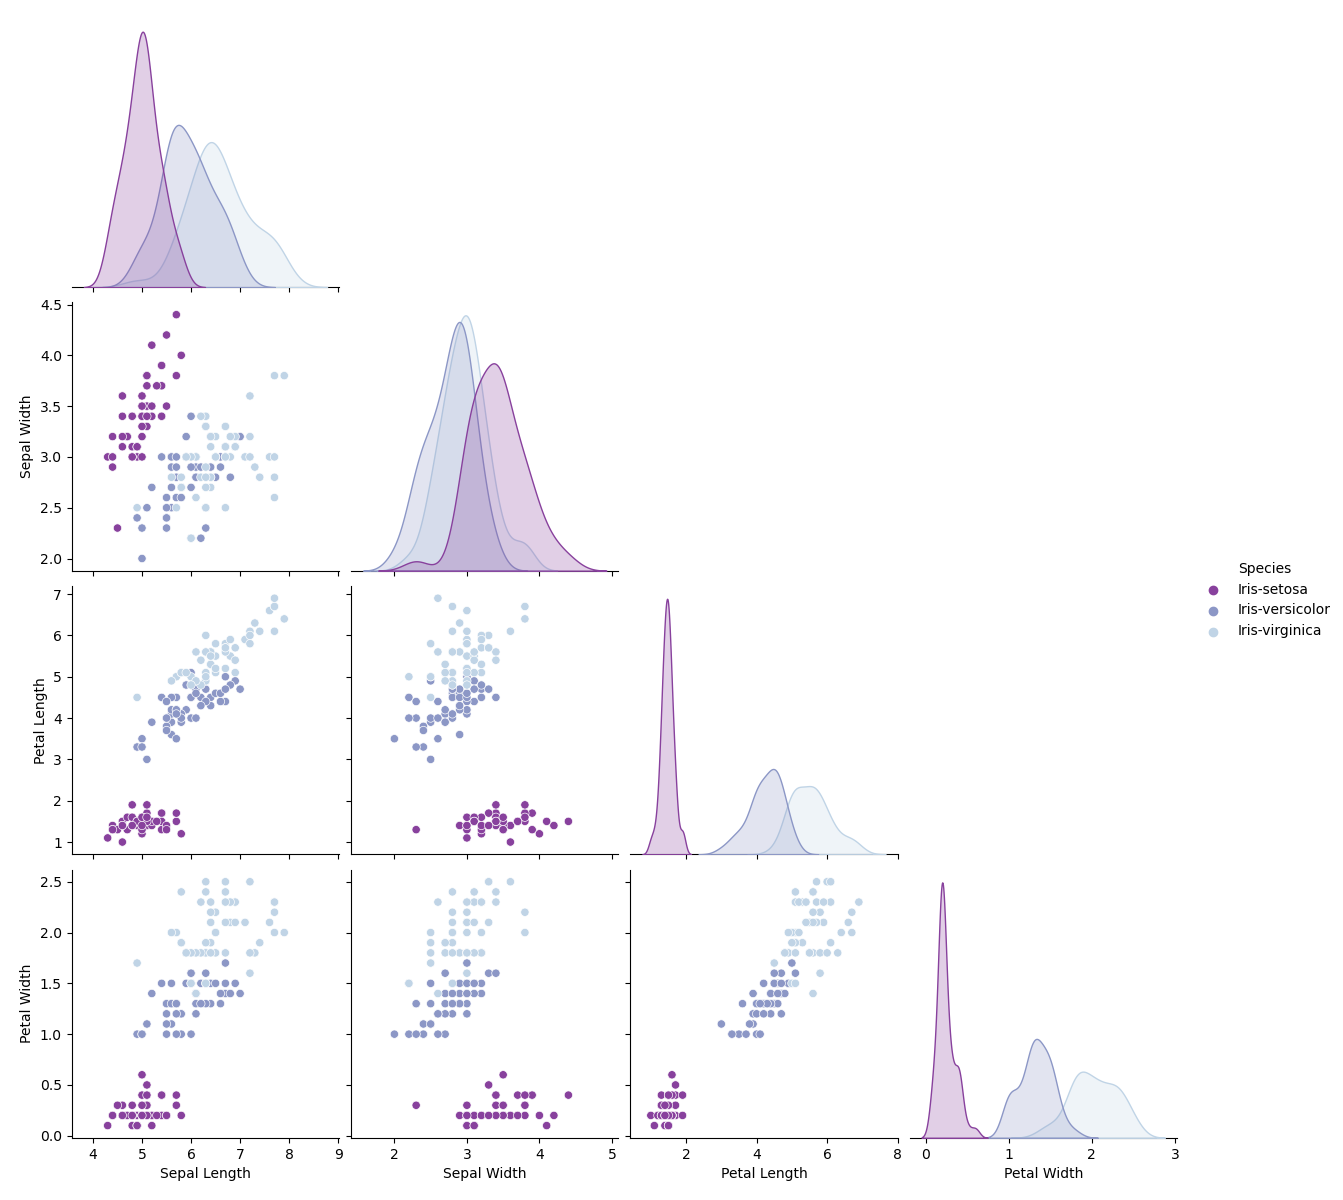
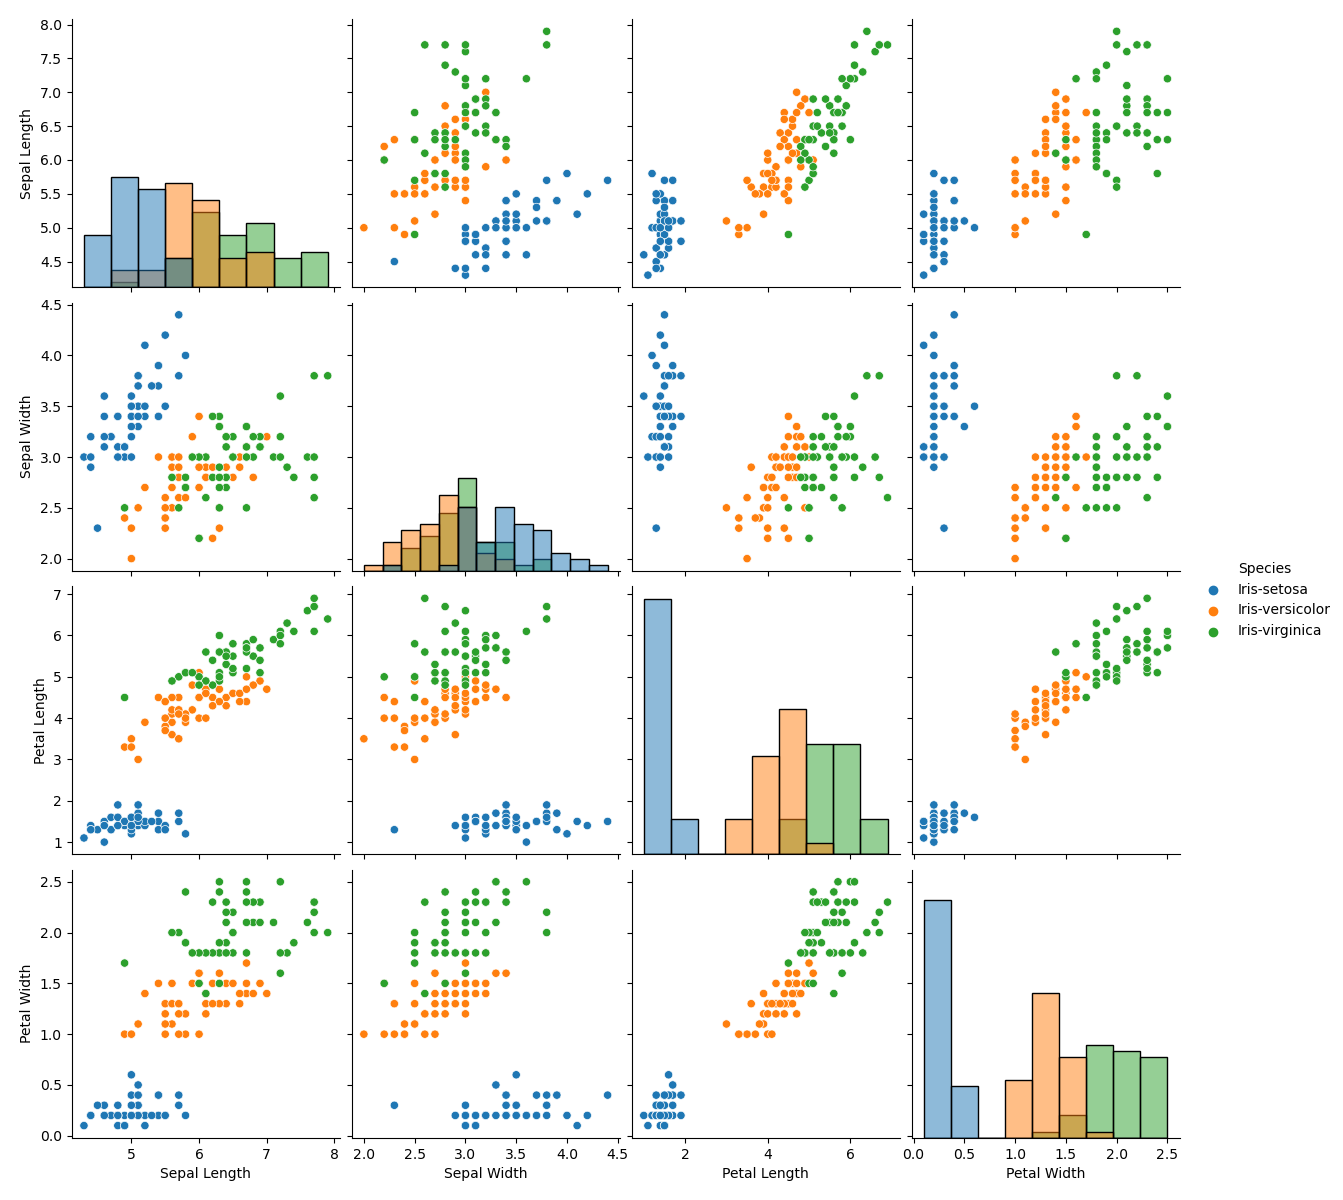
Extra Comments

diff --git a/analysis.py b/analysis.py
@@ -56,7 +56,9 @@ def dataSummary():
         f.write(("Data Correlation\n\n")+(str(correlation)))
 
 ###############################################################################################################################
-#Histograms
+#Histograms using matplotlib
+#Function to create 4 Histograms for each of the measured variables and save the output to image file
+
 def histograms():
 
     ax = plt.axes()
@@ -95,7 +97,10 @@ def histograms():
     
 
 ##########################################################################
-#Scatterplots
+#Scatterplots using Seaborn
+#Function to create 4 Scatterplots seperated by Species, for each of the variable pairs and save the output to image file
+#A seaborn pairplot to combine scatter and kernal density estimate
+
 def scatterPlots():
     
     sns.FacetGrid(df,hue="Species", palette="BuPu_r", height=5).map(plt.scatter, "Sepal Length", "Sepal Width" ).add_legend()
@@ -124,6 +129,8 @@ def scatterPlots():
     plt.show()
 
 ##########################################################################
+#Stacked histograms showing the values of each species. Combined into one output png
+
 def distPlot():
     distplot, axes = plt.subplots(2,2, figsize=(10,10), sharex=False)
     sns.histplot( x="Sepal Length", hue="Species", data = df, palette="BuPu_r", ax=axes[0,0], multiple = "stack")
@@ -135,16 +142,8 @@ def distPlot():
     plt.show()
 
 ##########################################################################
-def stack():
-    df.plot(kind='barh', stacked=True)  
-    plt.xlabel('in cm')  
-    plt.ylabel('Sample of 150 flowers') 
-    plt.title('Stacked Bar Graph')
-    plt.tight_layout()
-    #plt.savefig("./plots/stackPlot.png")
-    plt.show() 
+#Seaborn Box Plots of each sppecies by measured variable. Combined into one output png
 
-##########################################################################
 def boxPlots():
     boxPlot, axes = plt.subplots(1,4, figsize=(16,8))
     sns.boxplot(x="Species", y="Sepal Length", hue="Species", data=df, palette="BuPu_r", ax=axes[0], dodge=False)    
@@ -154,6 +153,9 @@ def boxPlots():
     plt.suptitle("Box Plots")
     plt.savefig("./plots/boxPlots.png")
     plt.show()
+
+##########################################################################
+#Seaborn Violin Plots of each sppecies by measured variable. Combined into one output png
 
 def violinPlots():
     violinplot, axes = plt.subplots(2,2, figsize=(10,10), sharex=False)
@@ -165,17 +167,22 @@ def violinPlots():
     plt.savefig("./plots/violinPlots.png")
     plt.show()
 
+##########################################################################
+#Seaborn Heat Map of the correlation table
+
 def heatMap():
     sns.heatmap(df.corr(),cmap="BuPu", annot=True)
     plt.title("Correlation Heat Map")
     plt.savefig("./plots/hMap.png")
     plt.show()
 
+##########################################################################
+#Commands to run each Function
+
 #dataSummary()
 #histograms()
-#scatterPlots()
-distPlot()
+scatterPlots()
+#distPlot()
 #boxPlots()
 #violinPlots()
-#stack()
 #heatMap()

diff --git a/README.md b/README.md
@@ -314,17 +314,17 @@ The sample code for one Histogram is shown below:
     ax.set_facecolor("lightgrey")
 ```
 
-
+To check the assumptions of distrubution from the histograms, a stacked plot of the seperate Species was generated to further breakdown the distrubution analysis.
 
 ![alt text](https://github.com/ShanePAustin/pands-project2021/blob/main/Plots/distPlot.png "Dist Plot")
 
 ```python
     distplot, axes = plt.subplots(2,2, figsize=(10,10), sharex=False)
-    sns.histplot( df["Sepal Length"] , kde = True, stat="density", linewidth=1, color="#810f7c", ax=axes[0, 0])
-    sns.histplot( df["Sepal Width" ] , kde = True, stat="density", linewidth=1, color="#8856a7" ,ax=axes[0, 1]) 
-    sns.histplot( df["Petal Length"] , kde = True, stat="density", linewidth=1, color="#8c96c6", ax=axes[1, 0]) 
-    sns.histplot( df["Petal Width" ] , kde = True, stat="density", linewidth=1, color="#b3cde3", ax=axes[1, 1])
-    plt.suptitle("Combined Histograms and Distribution Estimation")
+    sns.histplot( x="Sepal Length", hue="Species", data = df, palette="BuPu_r", ax=axes[0,0], multiple = "stack")
+    sns.histplot( x="Sepal Width",  hue="Species", data = df, palette="BuPu_r", ax=axes[0,1], multiple = "stack")
+    sns.histplot( x="Petal Length", hue="Species", data = df, palette="BuPu_r", ax=axes[1,0], multiple = "stack")
+    sns.histplot( x="Petal Width",  hue="Species", data = df, palette="BuPu_r", ax=axes[1,1], multiple = "stack")
+    plt.suptitle("Combined Histograms Seperated by Species")
 ```
 
 
